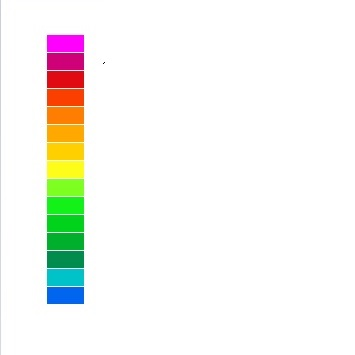
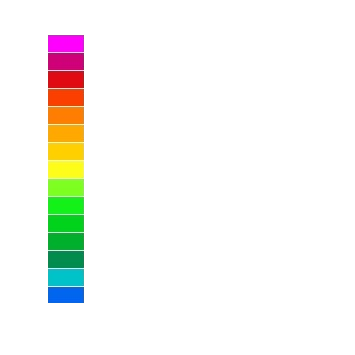
https://stackoverflow.com/q/77566681/5438626

Changed region(s): [[0.1239, 0.093, 0.2479, 0.8676], [0.2169, 0.4338, 0.2479, 0.4648], [0.2169, 0.093, 0.2479, 0.1239]]

diff --git a/picture-shop-2/MainForm.cs b/picture-shop-2/MainForm.cs
@@ -8,6 +8,7 @@ namespace picture_shop
 {
     public partial class MainForm : Form
     {
+        Bitmap RawImage { get; set; }
         public MainForm()
         {
             InitializeComponent(); 
@@ -16,47 +17,42 @@ namespace picture_shop
                 AppDomain.CurrentDomain.BaseDirectory,
                 "Images"
             );
+            RawImage = (Bitmap)Bitmap.FromFile(Path.Combine(ImageFolder, "Image1.jpg"));
+            pictureBox.BackColor = Color.Black;
+
+            bool drawFauxTransparentBackground = true;
+            if(drawFauxTransparentBackground)
+            {
+                pictureBox.BackgroundImage = null;
+            }
             buttonSave.Click += (sender, e) =>
             {
                 var fileName = Path.Combine(
                     Environment.GetFolderPath(Environment.SpecialFolder.MyPictures),
                     "TransparentImage.png");
-                using (var bmp = new Bitmap(pictureBox.Width, pictureBox.Height))
-                {
-                    var background = pictureBox.BackgroundImage;
-                    var image = pictureBox.Image;
-                    pictureBox.BackgroundImage = null; 
-                    pictureBox.Image = null;
 
-                    pictureBox.DrawToBitmap(bmp, pictureBox.ClientRectangle);
-                    bmp.Save(fileName, ImageFormat.Png);
+                Bitmap bmpToSave = new Bitmap(pictureBox.Width, pictureBox.Height);
+                using (Graphics graphics = Graphics.FromImage(bmpToSave))
+                {
+                    paintImageWithTransparency(RawImage, pictureBox.ClientRectangle, graphics);
                 }
+                bmpToSave.Save(fileName, ImageFormat.Png);
+
                 Process.Start("mspaint.exe", fileName);
             };
             pictureBox.Paint += (sender, e) =>
             {
                 if (sender is Control control)
                 {
-                    paintImageWithTransparency(control, e.Graphics);
+                    paintImageWithTransparency(RawImage, control.ClientRectangle, e.Graphics);
                 }
             };
 
-            void paintImageWithTransparency(Control control, Graphics graphics)
+            void paintImageWithTransparency(Bitmap rawImage, Rectangle rectangle, Graphics graphics)
             {
-                Bitmap bmp;
-                for (int i = 0; i < Layers.Count; i++)
-                {
-                    switch (i)
-                    {
-                        case 0:
-                            bmp = Layers[i];
-                            bmp = localReplaceColor(Layers[i], PickedColor, trackBarTolerance.Value);
-                            break;
-                        default:
-                            return;
-                    }
-                    graphics.DrawImage(bmp, control.ClientRectangle);
-                }
+                Bitmap bmp = localReplaceColor(rawImage, PickedColor, trackBarTolerance.Value);
+                graphics.DrawImage(bmp, rectangle);
+
                 Bitmap localReplaceColor(Bitmap bmp, Color targetColor, int tolerance)
                 {
                     if (tolerance == 0) return bmp;
@@ -170,13 +166,9 @@ namespace picture_shop
                 BackColor = PickedColor,
             };
             pictureBoxWheel.Controls.Add(labelPickedColor);
-        }
-        protected override void OnLoad(EventArgs e)
-        {
-            base.OnLoad(e);
-            Layers.Add((Bitmap)Bitmap.FromFile(Path.Combine(ImageFolder, "Image1.png")));
             labelTolerance.Visible = trackBarTolerance.Visible = true;
         }
+
         Label labelPickedColor;
         public Color PickedColor
         {
@@ -203,7 +195,5 @@ namespace picture_shop
                 Environment.SpecialFolder.LocalApplicationData),
                 Assembly.GetExecutingAssembly().GetName().Name,
                 "Images");
-
-        private List<Bitmap> Layers { get; } = new List<Bitmap>();
     }
 }

diff --git a/picture-shop-2/MainForm.Designer.cs b/picture-shop-2/MainForm.Designer.cs
@@ -73,7 +73,7 @@
             trackBarTolerance.Name = "trackBarTolerance";
             trackBarTolerance.Size = new Size(394, 34);
             trackBarTolerance.TabIndex = 2;
-            trackBarTolerance.Value = 50;
+            trackBarTolerance.Value = 12;
             trackBarTolerance.Visible = false;
             // 
             // labelTolerance

diff --git a/README.md b/README.md
@@ -1,27 +1,13 @@
 # Picture Shop 2
 
-I've been having too much fun with `PictureBox` lately. [How to save multiple overlapping PictureBoxes?](https://stackoverflow.com/a/77502322/5438626) 
-
-For your question, the strategy would be similar: Draw the image into 
-`PictureBox` then similar to the code in that answer you would replace pixels that fall within a certain tolerance with a transparent pixel. 
+For purposes of demo, suppose the source image `RawImage` is a JPG and therefore a little bit ratty. And we're going to preview a transparency modification using a `PictureBox`. So to swap out the pixels, the code is this:
 
 ```
-pictureBox.Paint += (sender, e) =>
+void paintImageWithTransparency(Bitmap rawImage, Rectangle rectangle, Graphics graphics)
 {
-    Bitmap bmp;
-    for (int i = 0; i < Layers.Count; i++)
-    {
-        switch (i)
-        {
-            case 0:
-                bmp = Layers[i];
-                bmp = localReplaceColor(Layers[i], PickedColor, trackBarTolerance.Value);
-                break;
-            default:
-                return;
-        }
-        e.Graphics.DrawImage(bmp, pictureBox.ClientRectangle);
-    }
+    Bitmap bmp = localReplaceColor(rawImage, PickedColor, trackBarTolerance.Value);
+    graphics.DrawImage(bmp, rectangle);
+
     Bitmap localReplaceColor(Bitmap bmp, Color targetColor, int tolerance)
     {
         if (tolerance == 0) return bmp;
@@ -45,10 +31,26 @@ pictureBox.Paint += (sender, e) =>
         }
         return copy;
     }
+}
+```
+
+This goes in the `PictureBox` paint event handler.
+
+```
+pictureBox.Paint += (sender, e) =>
+{
+    if (sender is Control control)
+    {
+        paintImageWithTransparency(RawImage, control.ClientRectangle, e.Graphics);
+    }
 };
 ```
 
-To save it, draw the `PictureBox` to a bitmap and save it something like this:
+[![screenshot][1]][1]
+
+---
+
+Now we want to `Save` it, but drawing on the canvas isn't the same as setting the `Image` property (which is `null` in fact). Most other ways of saving the transparent image we're seeing in the `PictureBox` end in a non-transparent background. The way we're going to get around this is, once we preview the transparency in the picture box, is to use the identical code to make an ad-hoc Bitmap and save _that_ Bitmap without interacting with the `pictureBox`.
 
 ```
 buttonSave.Click += (sender, e) =>
@@ -56,11 +58,20 @@ buttonSave.Click += (sender, e) =>
     var fileName = Path.Combine(
         Environment.GetFolderPath(Environment.SpecialFolder.MyPictures),
         "TransparentImage.png");
-    using (var bmp = new Bitmap(pictureBox.Width, pictureBox.Height))
+
+    Bitmap bmpToSave = new Bitmap(pictureBox.Width, pictureBox.Height);
+    using (Graphics graphics = Graphics.FromImage(bmpToSave))
     {
-        pictureBox.DrawToBitmap(bmp, pictureBox.ClientRectangle);
-        bmp.Save(fileName, ImageFormat.Png);
+        paintImageWithTransparency(RawImage, pictureBox.ClientRectangle, graphics);
     }
+    bmpToSave.Save(fileName, ImageFormat.Png);
+
     Process.Start("mspaint.exe", fileName);
 };
 ```
+
+Here it is rendered in Windows 11 MS Paint.
+
+[![transparent image][2]][2]
+
+___
